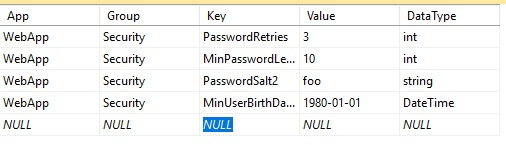
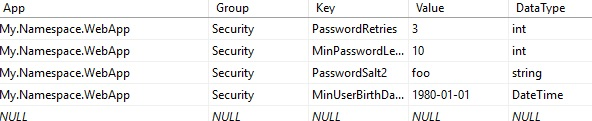
initial commit

diff --git a/README.md b/README.md
@@ -7,26 +7,30 @@ By [v-braun - www.dev-things.net](http://www.dev-things.net).
 T4 based script that generates a C# configuration class from a Database Table.
 
 The following table:
-![table example](https://github.com/v-braun/sharp-db-config-generator/assets/master/media/db.jpg)
+
+![table example](https://cdn.rawgit.com/v-braun/sharp-db-config-generator/master/assets/db.jpg)
 
 Results in this C# Class:
 
 ```csharp
-namespace My.Default.Namespace {
+namespace My.Namespace {
 
 using System;
 using System.Collections.Generic;
 using System.Data;
 using System.Linq;
 
-	public class ApiConfiguration { 
+	public class WebAppConfiguration { 
 		public SecurityConfiguration Security { get; private set; }
 
 		#region constructor
-		public ApiConfiguration(DataTable data){ 
+		public WebAppConfiguration(DataTable data){ 
 			var config = TransformConfigTable(data);
 			this.Security = new SecurityConfiguration();
-			this.Security.LoggedUserSince = Get_DateTime(config, "Api.Security.LoggedUserSince");
+			this.Security.PasswordRetries = Get_int(config, "WebApp.Security.PasswordRetries");
+			this.Security.MinPasswordLength = Get_int(config, "WebApp.Security.MinPasswordLength");
+			this.Security.PasswordSalt2 = Get_string(config, "WebApp.Security.PasswordSalt2");
+			this.Security.MinUserBirthDate = Get_DateTime(config, "WebApp.Security.MinUserBirthDate");
  	
 		}
 		#endregion
@@ -100,7 +104,10 @@ using System.Linq;
  
 		#region config classes
 		public class SecurityConfiguration { 
-			public DateTime LoggedUserSince {get; set;}
+			public int PasswordRetries {get; set;}
+			public int MinPasswordLength {get; set;}
+			public string PasswordSalt2 {get; set;}
+			public DateTime MinUserBirthDate {get; set;}
 		
 		}
 
